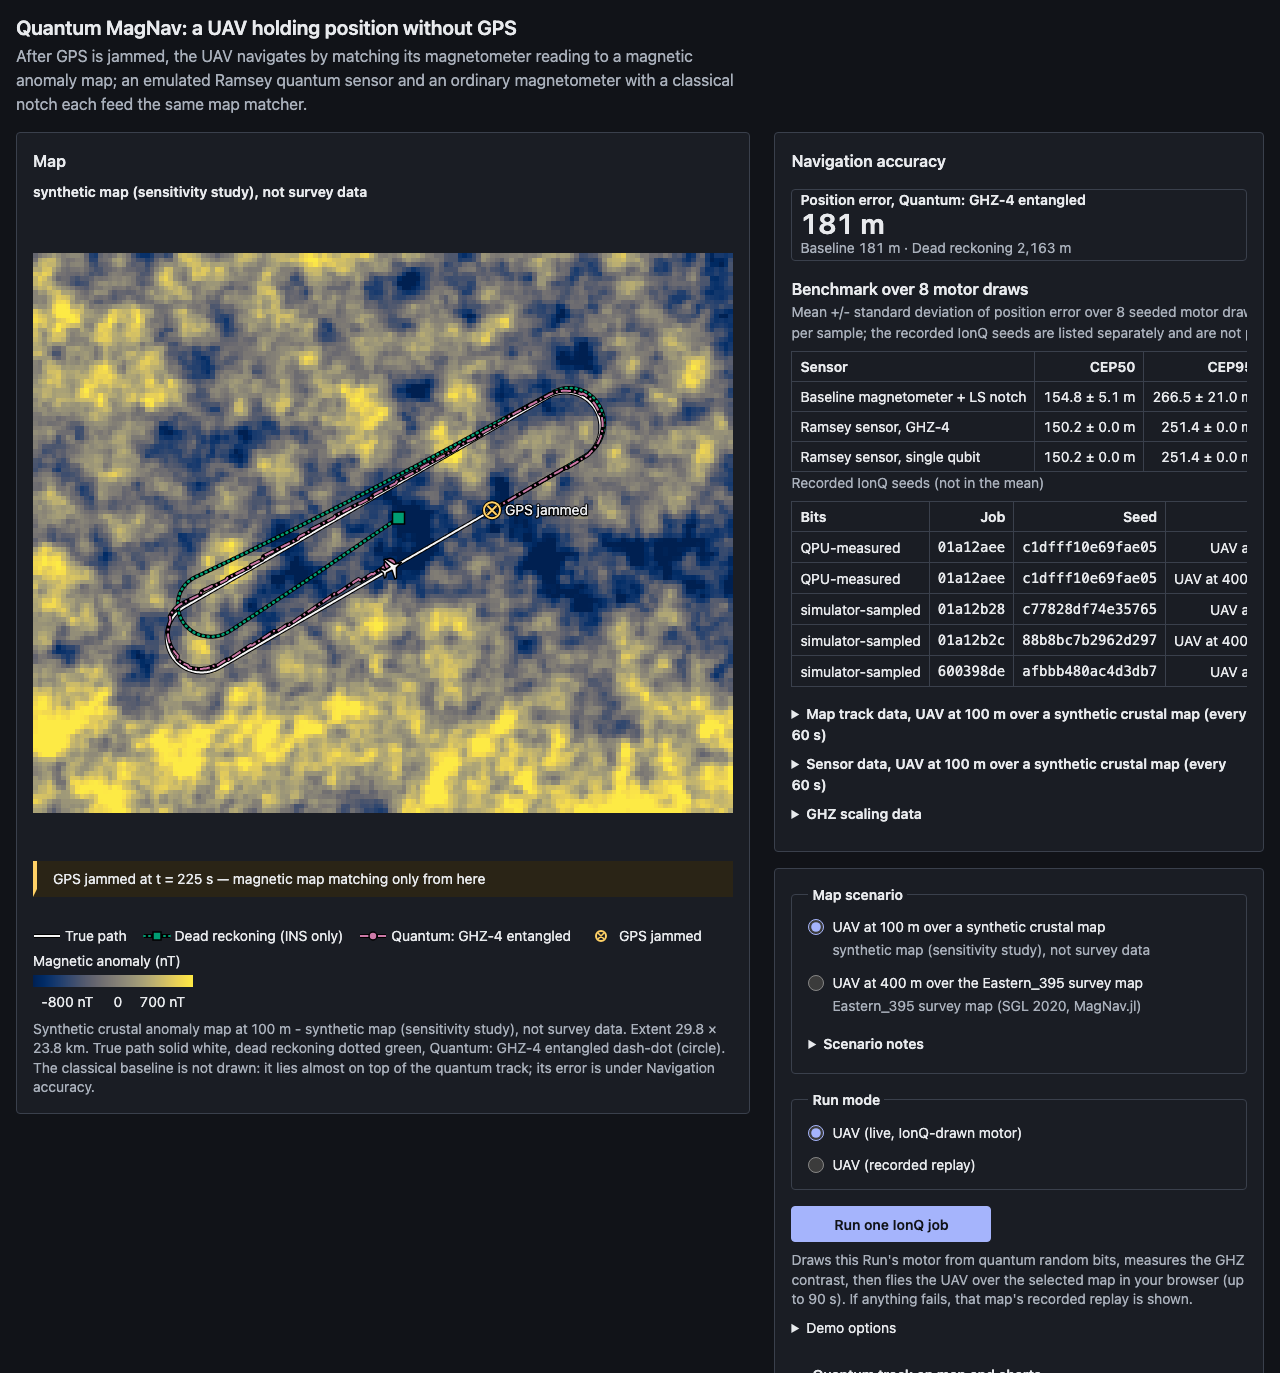
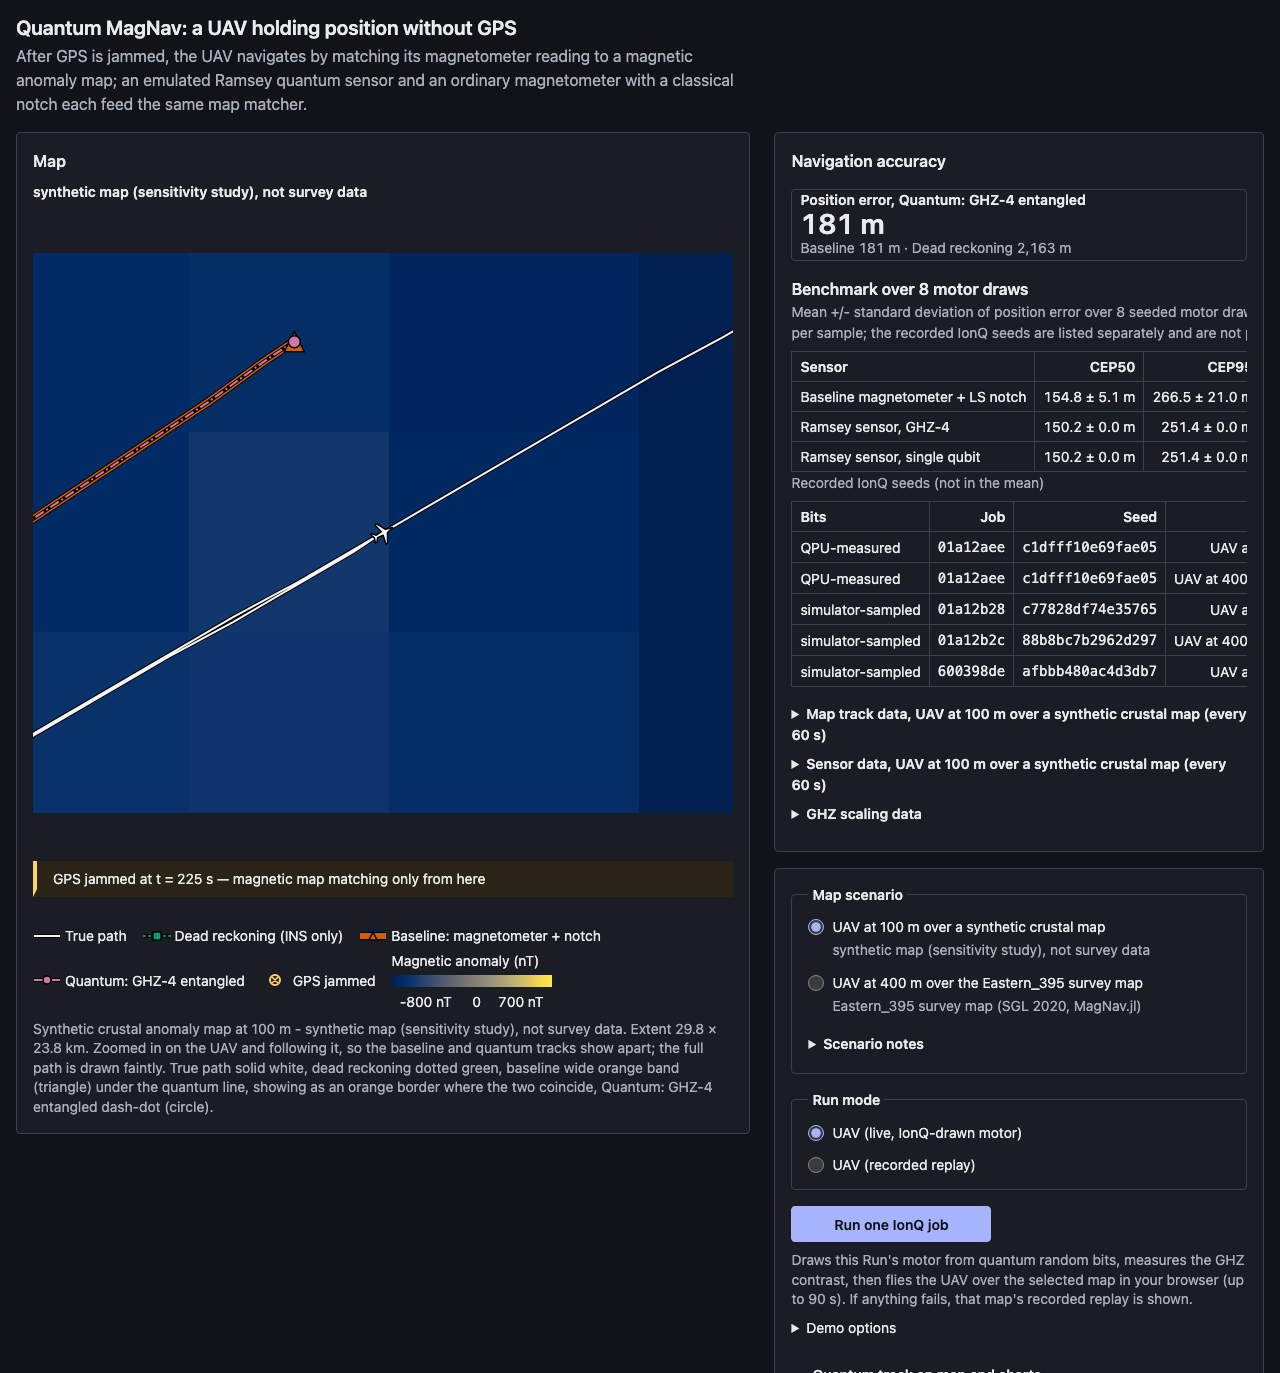
test(03-07-adhoc4): follow-window and restored-baseline checks; audit the Map view control; regenerate keyboard artifact and hero
- follow.test.js: centring, clamping, oversize window, 20x rule with floor/ceiling, mean separation from the jam index
- layout.test.js: baseline drawn and listed again; Map view radio group in Demo options, default follow, not live-only
- audit.mjs: legend must list and overlay must draw the baseline; checked map mode is follow; keyboard check of the Map view radios (Tab in, ArrowDown to Full trajectory, ArrowUp back)
- results/a11y_keyboard.json and docs/hero.png regenerated (hero: zoomed follow view at the end of the replay)

Changed region(s): [[0.0, 0.1835, 0.5938, 0.6118], [0.0312, 0.673, 0.5625, 0.8259], [0.0312, 0.673, 0.1875, 0.7342]]

diff --git a/web/src/lib/layout.test.js b/web/src/lib/layout.test.js
@@ -2,8 +2,9 @@
 // "Navigation accuracy" (above the benchmark), the row under the map holds only the jam banner,
 // and the per-track CEP table and two-scenario comparison are README-only. Second request: the
 // map has the (wider) left column to itself; the right column holds Navigation accuracy, then the
-// Run controls and status, then the collapsed job and Sensor sections; the map legend no longer
-// lists the baseline, whose track is not drawn. Static checks on the component sources
+// Run controls and status, then the collapsed job and Sensor sections. Fourth request: the map
+// follows the UAV zoomed in by default, so the baseline track is drawn and listed again (Map view
+// radio group in Demo options). Static checks on the component sources
 // (node --test has no DOM); web/scripts/audit.mjs checks the rendered page.
 import { test } from 'node:test';
 import assert from 'node:assert/strict';
@@ -49,7 +50,7 @@ test('the error box is not a live region (the single Announcer speaks the readou
 
 test('the left column holds only the map; the right column runs results, controls, status, job, Sensor', () => {
   const left = app.slice(app.indexOf('<div className="col-left">'), app.indexOf('<div className="col-right">'));
-  assert.match(left, /^<div className="col-left">\s*<MapView view=\{view\} quantumKey=\{activeQuantum\} \/>\s*<\/div>\s*$/);
+  assert.match(left, /^<div className="col-left">\s*<MapView view=\{view\} quantumKey=\{activeQuantum\} mapMode=\{mapMode\} \/>\s*<\/div>\s*$/);
   const right = app.slice(app.indexOf('<div className="col-right">'), app.indexOf('className="panel quantum-here"'));
   const at = (needle) => {
     const k = right.indexOf(needle);
@@ -78,12 +79,24 @@ test('two columns from 900 px give the map the wider column', () => {
   assert.match(wide.slice(0, wide.indexOf('\n}')), /\.layout:has\(> \.col-right\) \{ grid-template-columns: minmax\(0, 3fr\) minmax\(0, 2fr\);/);
 });
 
-test('the map neither draws nor lists the classical baseline track', () => {
-  assert.ok(!mapView.includes("'baseline_ls'"), 'MapView must not read the baseline estimate');
-  assert.ok(!mapView.includes('px.base'), 'MapView must not draw a baseline polyline or marker');
+test('the map draws and lists the classical baseline track again (follow view separates it)', () => {
+  assert.ok(mapView.includes("const BASELINE_KEY = 'baseline_ls';"), 'MapView must read the baseline estimate');
+  assert.ok(mapView.includes('sliceStr(px.base.str, jamIdx)'), 'baseline polyline missing');
+  assert.ok(mapView.includes('<Marker shape={B.marker} x={base[0]} y={base[1]}'), 'baseline marker missing');
   const legend = mapView.slice(mapView.indexOf('<ul className="map-legend">'), mapView.indexOf('</ul>'));
-  assert.ok(!/series=\{B\}|BASELINE|baseline/i.test(legend), 'legend still lists the baseline');
-  // the figcaption (the map's text description) says why, instead of describing an orange line
-  assert.ok(!mapView.includes('dashed orange'));
-  assert.ok(mapView.includes('The classical baseline is not drawn'));
+  assert.ok(legend.includes('<LegendSwatch series={B} shape={B.marker} dash="" width={6} />'), 'legend lacks the baseline');
+  assert.ok(legend.indexOf('series={B}') < legend.indexOf('series={quantum}'), 'baseline listed before the quantum track');
+  assert.ok(mapView.includes('baseline wide orange band (triangle)'));
+  assert.ok(!mapView.includes('The classical baseline is not drawn'));
+});
+
+test('the map view control sits in Demo options, defaults to following the UAV, outside the live-only block', () => {
+  assert.ok(mapView.includes("export const DEFAULT_MAP_MODE = 'follow';"));
+  assert.match(mapView, /\{ key: 'follow', label: 'Follow the UAV \(zoomed\)' \},\s*\{ key: 'full', label: 'Full trajectory' \}/);
+  const demo = app.slice(app.indexOf('<details className="demo-options">'), app.indexOf('</details>', app.indexOf('<details className="demo-options">')));
+  assert.ok(demo.includes('<legend>Map view</legend>'));
+  assert.ok(demo.includes('type="radio"'));
+  assert.ok(demo.indexOf('<legend>Map view</legend>') < demo.indexOf('{live && ('), 'map view must not depend on live mode');
+  assert.ok(app.includes('<MapView view={view} quantumKey={activeQuantum} mapMode={mapMode} />'));
+  assert.ok(app.includes('useState(DEFAULT_MAP_MODE)'));
 });

diff --git a/web/src/lib/follow.test.js b/web/src/lib/follow.test.js
@@ -1,0 +1,41 @@
+import { test } from 'node:test';
+import assert from 'node:assert/strict';
+import {
+  FOLLOW_MAX_M, FOLLOW_MIN_M, followViewBox, followWindowMetres, meanSeparation,
+} from './follow.js';
+
+test('followViewBox centres the window on the playhead', () => {
+  const v = followViewBox([300, 200], 100, { W: 600, H: 400 });
+  assert.deepEqual(v, { x: 250, y: 200 - 100 * (400 / 600) / 2, w: 100, h: 100 * (400 / 600) });
+});
+
+test('followViewBox clamps to the map extent', () => {
+  const ext = { W: 600, H: 400 };
+  const a = followViewBox([5, 5], 120, ext);
+  assert.equal(a.x, 0);
+  assert.equal(a.y, 0);
+  const b = followViewBox([599, 399], 120, ext);
+  assert.equal(b.x, 600 - 120);
+  assert.equal(b.y, 400 - 80);
+});
+
+test('followViewBox centres a window wider than the map', () => {
+  const v = followViewBox([10, 10], 1200, { W: 600, H: 400 });
+  assert.equal(v.x, -300);
+  assert.equal(v.y, -200);
+  assert.equal(v.h, 800);
+});
+
+test('followWindowMetres is 20x the separation within the floor and ceiling', () => {
+  assert.equal(followWindowMetres(5), FOLLOW_MIN_M);
+  assert.equal(followWindowMetres(37), 740);
+  assert.equal(followWindowMetres(1000), FOLLOW_MAX_M);
+  assert.equal(followWindowMetres(NaN), FOLLOW_MIN_M);
+});
+
+test('meanSeparation averages from the jam index on', () => {
+  const a = { x: [0, 0, 0], y: [0, 0, 0] };
+  const b = { x: [100, 3, 0], y: [0, 4, 0] };
+  assert.equal(meanSeparation(a, b, 1), 2.5);
+  assert.equal(meanSeparation(a, b, 3), 0);
+});
